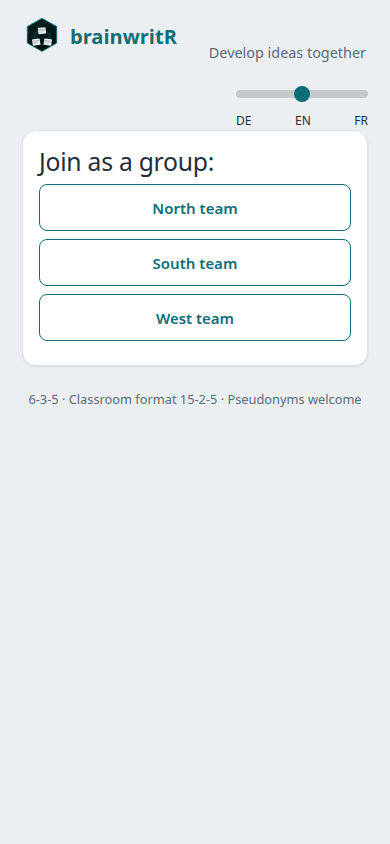
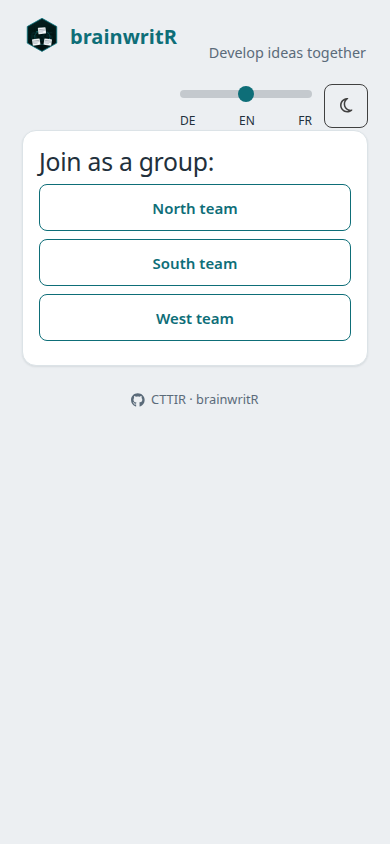
docs: document 0.5.0 plenum weighting and audit fixes
Describe the weighting workflow, planned group size, dark mode, phone
chart layouts, spreadsheet-safe CSV, login lifetime and migration, and
refresh the screenshot gallery.

diff --git a/README.md b/README.md
@@ -26,10 +26,13 @@ with its own address and QR code, managed from a moderator overview. No
 accounts, webfonts, or external application services are required.
 
 Use the **DE / EN / FR language slider** to change the interface without
-replacing answer fields or translating contributed text. The choice is
-remembered in that browser. German is the default. The text-analysis
-method and export schemas retain their documented German defaults; the
-in-app chart labels follow the selected language.
+replacing answer fields or translating contributed text. The button next
+to it switches between a light and a dark theme; the choice is
+remembered in that browser, and without one the device setting decides.
+Charts and QR codes stay light for legibility and scanning. German is
+the default. The text-analysis method and export schemas retain their
+documented German defaults; the in-app chart labels follow the selected
+language.
 
 ## Install and start
 
@@ -73,9 +76,11 @@ brainwritR::run_app(
 
 1.  **Set up:** open the moderator route, enter the PIN, and enter a
     title and two questions for each topic. Choose 2–6 groups, 1–12
-    rounds, and 30–1800 seconds per round. The **15-2-5** preset is
-    three topics, three rounds, five minutes per round, designed for
-    roughly 13–17 participants.
+    rounds, and 30–1800 seconds per round. Enter the planned number of
+    participants: below the fields the format is described live, for
+    example “Format 15-2-5: 3 topics, 3 rounds, 300 s per round. 5
+    people per group.” (participants, questions, minutes). Names are
+    optional; participants can enter a name or pseudonym when joining.
 2.  **Invite:** open the lobby. Participants scan the QR code and enter
     a name or pseudonym. Watch the live roster, then start once at least
     K people have joined.
@@ -84,11 +89,51 @@ brainwritR::run_app(
     questions. Drafts save after 1.2 seconds of quiet; **Abgeben**
     explicitly submits both answers. Submitted answers remain editable
     until the round ends. The moderator can add 60 seconds or end a
-    round early.
-4.  **Debrief:** after the last round, the moderator sees results by
-    topic and sheet, downloads CSV, Markdown, RDS, XLSX or a two-page
-    PDF, and can reset the session (**Zurücksetzen …**) or archive it
-    and start the next one from the session overview.
+    round early; repeated clicks or a second moderator tab end only the
+    round that is on screen, never the next one.
+4.  **Weigh (optional):** in **Analyse & Plenum**, start the weighting.
+    Everyone distributes 100 % per topic across the anonymous
+    contributions; the moderator ends it and discusses the ranked
+    overview with the room.
+5.  **Debrief:** the moderator sees results by topic and sheet,
+    downloads CSV, Markdown, RDS, XLSX or the PDF report, and can reset
+    the session (**Zurücksetzen …**) or archive it and start the next
+    one from the session overview.
+
+## Weigh contributions in the plenum
+
+After the writing phase, the finished moderator view has an **Analyse &
+Plenum** tab. **Gewichtung starten** switches every participant’s device
+to the weighting: all nonempty contributions of each topic appear
+without names and in a personal random order. Each person has **100 %
+per topic** and distributes it with sliders in steps of 5 %; a slider
+cannot pass the remaining budget, and every change saves at once. Each
+slider is named by its question and contribution for screen readers and
+announces the topic’s remaining budget. If the same person has the page
+open twice, or a group device is taken over, every open page follows the
+stored weights within a few seconds. Everyone may weight all
+contributions, including their own. In group-device mode each group
+weights as one author. On a shared hot-seat device the weighting passes
+from person to person (**Weitergeben an: …**, **Los geht’s**, **Fertig —
+weitergeben**); the moderator can skip an absent person.
+
+While the weighting runs, the moderator sees per topic how many people
+have used their full budget; results stay hidden so they cannot steer
+the vote. **Gewichtung beenden** shows the collected overview: a chart
+of the highest-weighted contributions per topic and the full ranking
+with share of all points given in the topic, mean per person and number
+of supporters. **Wieder öffnen** continues with the saved weights. The
+weighting is a snapshot of the group’s opinion, not a measure of idea
+quality.
+
+The weights are stored with the voter’s participant ID so that each
+person keeps one budget; the app never shows who gave which weight.
+**Gewichtung (CSV)** exports the ranking, and the XLSX workbook (sheet
+**Gewichtung**), the Markdown protocol and a third PDF page include it;
+all of these are aggregated per contribution. Only the RDS snapshot
+keeps the individual weights (table `votes`), linked to participant IDs
+and therefore to names unless **Namen pseudonymisieren** is ticked,
+which replaces the voter IDs with the same codes as the authors.
 
 ## Run several sessions
 
@@ -122,8 +167,10 @@ a login token that lives only in server memory and in the tab’s session
 storage, so moving between sessions and reconnecting do not ask for the
 PIN again. **Abmelden** (sign out) ends it; a server restart signs
 everyone out. After five wrong PINs, new logins pause for 15 seconds,
-doubling up to five minutes; signed-in moderators continue. Because the
-PIN now also protects deletion, use a long private PIN.
+doubling up to five minutes; signed-in moderators continue. A login
+lasts 12 hours: an open moderator tab is signed out within a minute once
+it expires. Because the PIN now also protects deletion, use a long
+private PIN.
 
 Participants keep a separate stored identity for each session, so one
 device can join several sessions. Unknown codes show **Session nicht
@@ -133,8 +180,9 @@ a few seconds.
 **Storage.** `DB_PATH` holds the standard session and the session
 catalog. Every further session is a separate SQLite file with the
 unchanged schema in a `sessions/` folder next to it. Back up the whole
-folder. Existing databases need no migration: their session simply
-becomes the standard session.
+folder. Existing databases migrate automatically when the app starts,
+including every catalogued session file; their session becomes the
+standard session. Back up before upgrading.
 
 ## Screenshot gallery
 
@@ -149,9 +197,11 @@ content.
 |:---|:---|
 | <img src="man/figures/group-device.png" width="320" alt="English group claim buttons" /> | <img src="man/figures/hot-seat.png" width="320" alt="English hot-seat handover and start button" /> |
 
-| Session overview |
-|:---|
-| <img src="man/figures/sessions.png" width="320" alt="English session overview with open, QR code, restart, archive and delete actions" /> |
+| Session overview | Plenum weighting |
+|:---|:---|
+| <img src="man/figures/sessions.png" width="320" alt="English session overview with open, QR code, restart, archive and delete actions" /> | <img src="man/figures/plenum-vote.png" width="320" alt="English weighting sliders distributing 100 percent per topic" /> |
+
+<img src="man/figures/plenum-results.png" width="720" alt="English plenum overview with ranked contributions and chart" />
 
 <img src="man/figures/analytics.png" width="720" alt="English descriptive analytics with indicators, contribution chart and term figures" />
 
@@ -262,21 +312,25 @@ unknown keys produce warnings and are ignored. The PIN is never read
 from or exported to settings. Keep it in runtime configuration.
 
 Database initialization migrates older sessions in place. It adds `mode`
-(default `individual`), `current_turn` (default 0), and `settings_yaml`
-without changing the other tables or removing data. The additional
-settings column is a deliberate extension to keep custom names, the
-prepared roster, and turn duration in SQLite across restarts. No sidecar
-file is required. Back up before upgrading; an older package version
-should not be used to operate a newer-mode database.
+(default `individual`), `current_turn` (default 0), `settings_yaml`, and
+for the plenum `plenum` (default `none`) and `plenum_turn` (default 0),
+and creates the `votes` table, without changing the other tables or
+removing data. `run_app()` applies this to the main database and to
+every catalogued session file at startup. The additional settings column
+is a deliberate extension to keep custom names, the prepared roster, and
+turn duration in SQLite across restarts. No sidecar file is required.
+Back up before upgrading; an older package version should not be used to
+operate a newer-mode database.
 
 ## Analytics and reports
 
-The moderator’s finished screen has **Beiträge** and **Auswertung**
-tabs. Four indicators summarize nonempty saved answers: contribution
-count, average raw word count, submitted share, and distinct filtered
-terms. Drafts count as contributions; **Abgabequote** is submitted
-nonempty entries divided by all nonempty entries, not a measure of
-attendance or the proportion of possible answers completed.
+The moderator’s finished screen has **Beiträge**, **Auswertung** and
+**Analyse & Plenum** tabs. Four indicators summarize nonempty saved
+answers: contribution count, average raw word count, submitted share,
+and distinct filtered terms. Drafts count as contributions;
+**Abgabequote** is submitted nonempty entries divided by all nonempty
+entries, not a measure of attendance or the proportion of possible
+answers completed.
 
 The figures show contributions by topic/round, the top eight terms per
 topic, a term network, a wordcloud, and adjacent-round lexical overlap.
@@ -284,7 +338,12 @@ Network and wordcloud share a topic selector. The network defaults to at
 least two entries containing a pair and at most 40 frequent terms; the
 cloud uses at most 60 terms. Layouts use fixed seeds. The same plotting
 functions create app and report figures. Empty or insufficient input
-produces a labelled placeholder instead of an error.
+produces a labelled placeholder instead of an error. On phones the app
+switches to single-column term charts, a smaller network, horizontal
+continuity bars and a rank-numbered weighting chart whose height follows
+the bars shown. Contributions consisting only of whitespace (including
+tabs, line breaks, no-break or ideographic spaces and zero-width
+characters) never count as contributions.
 
 Text processing is deliberately simple: Unicode letter boundaries,
 German lowercasing, at least three letters, German Snowball stopwords,
@@ -305,9 +364,10 @@ On macOS, the CRAN R build may require
 before using PDF reports; see the [R Cairo device
 documentation](https://search.r-project.org/R/refmans/grDevices/html/cairo.html).
 
-The PDF always has two A4 portrait pages, including for an empty
-session: overview/parameters/KPIs/contributions/top terms, then
-networks/wordcloud/topic summary. Up to three topics receive separate
+The PDF has two A4 portrait pages, including for an empty session:
+overview/parameters/KPIs/contributions/top terms, then
+networks/wordcloud/topic summary. A third page with the plenum weighting
+follows when weights exist. Up to three topics receive separate
 networks; larger sessions receive one combined network. Cairo and
 patchwork compose the report directly: the runtime container needs no
 LaTeX, Pandoc, or R Markdown report toolchain.
@@ -316,9 +376,10 @@ LaTeX, Pandoc, or R Markdown report toolchain.
 |:---|:---|:---|
 | CSV | Spreadsheet or statistical import | Existing UTF-8 long contribution table |
 | Markdown | Readable classroom protocol | Questions and nonempty answers by topic/sheet |
-| RDS | Lossless re-analysis in R | Four raw tables, settings, generation time, package version |
-| XLSX | Workbook for review | Beiträge, Teilnehmer, Themen, Kennzahlen; styled headers |
-| PDF | Shareable two-page debrief | Session overview and the shared descriptive figures |
+| RDS | Lossless re-analysis in R | Raw tables (plus `votes`), settings, generation time, package version |
+| XLSX | Workbook for review | Beiträge, Teilnehmer, Themen, Kennzahlen (plus Gewichtung); styled headers |
+| PDF | Shareable debrief | Session overview and the shared figures; plenum page when weighted |
+| Gewichtung (CSV) | Plenum ranking | Topic, rank, contribution, points, share, mean, supporters |
 
 **Namen pseudonymisieren (TN-01, TN-02, …)** applies stable
 arrival-order codes to all five downloads; groups receive `Gruppe-01`,
@@ -422,11 +483,11 @@ runs as unprivileged UID 10001. A standalone local smoke run needs no
 Traefik:
 
 ``` sh
-docker build -f docker/Dockerfile -t brainwritr:0.4.0 .
+docker build -f docker/Dockerfile -t brainwritr:0.5.0 .
 docker volume create brainwritr-data
 docker run --rm --name brainwritr -p 3838:3838 \
   -e MOD_PIN=choose-a-private-pin \
-  -v brainwritr-data:/app/data brainwritr:0.4.0
+  -v brainwritr-data:/app/data brainwritr:0.5.0
 ```
 
 For an existing Traefik installation with an external `proxy` network:
@@ -459,14 +520,15 @@ grouped Markdown protocol. Markdown groups Thema → Bogen →
 
 Use pseudonyms and avoid personal or sensitive information in
 contributions. The app stores names/pseudonyms, an opaque participant
-ID, joining and editing times, group assignments, and text on your
-server. Browser storage holds one participant ID per session and the
-language preference; a moderator tab also keeps its login token in
-session storage. It makes no application calls to external services and
-has no external usage tracking. The moderator can export all
-contributions and reset the session. Participants can read earlier
-drafts as well as submissions on their assigned sheet; this is a
-collaborative activity, not a confidential survey.
+ID, joining and editing times, group assignments, plenum weights, and
+text on your server. Browser storage holds one participant ID per
+session and the language and light/dark theme preferences; a moderator
+tab also keeps its login token in session storage. It makes no
+application calls to external services and has no external usage
+tracking. The moderator can export all contributions and reset the
+session. Participants can read earlier drafts as well as submissions on
+their assigned sheet; this is a collaborative activity, not a
+confidential survey.
 
 This supports data-minimizing, self-hosted use; it is **not a blanket
 GDPR/DSGVO compliance guarantee**. The operator defines access, notice,
@@ -476,7 +538,13 @@ forensic erasure of SQLite pages, filesystem snapshots, exports or
 backups. Archived sessions keep their data until deleted. Protect those
 separately. Treat exported user text as untrusted when importing into
 spreadsheet software or rendering Markdown; use text-only spreadsheet
-import and a safe Markdown renderer.
+import and a safe Markdown renderer. The CSV downloads stay raw by
+default for statistical use. **CSV für Tabellenkalkulation absichern**
+prefixes `=`, `+`, `-`, `@`, a tab or a carriage return with an
+apostrophe (OWASP CSV-injection guidance) at the start of a cell and
+after an embedded comma, semicolon, tab or line break, so spreadsheets
+that split on `;` or start a new record at a line break see no live
+formula; RDS stays lossless.
 
 ## Development and quality
 
@@ -491,13 +559,14 @@ pkgdown::build_site()
 
 Tests cover rotation, lifecycle, balanced assignment, late arrivals,
 upserts, clock advancement, authorization, exports, reset, the session
-catalog, routing, overview actions and login throttling. `shinytest2`
-exercises a phone-sized browser, PIN rejection, reload/resume, polling
-stability, a participant-driven round change, separate identities per
-session and moderator navigation between sessions. Browser tests skip on
-CRAN or if Chrome is unavailable; set `CHROMOTE_CHROME` to a Chromium
-executable to enable them locally. CI checks Linux, macOS and Windows,
-lint, and builds the CTTIR-themed pkgdown site.
+catalog, routing, overview actions, login throttling, plenum budgets,
+results and exports. `shinytest2` exercises a phone-sized browser, PIN
+rejection, reload/resume, polling stability, a participant-driven round
+change, separate identities per session, moderator navigation between
+sessions and the weighting sliders’ budget in the browser. Browser tests
+skip on CRAN or if Chrome is unavailable; set `CHROMOTE_CHROME` to a
+Chromium executable to enable them locally. CI checks Linux, macOS and
+Windows, lint, and builds the CTTIR-themed pkgdown site.
 
 See the [classroom and deployment
 guide](https://cttir.github.io/brainwritR/articles/classroom-guide.html)

diff --git a/NEWS.md b/NEWS.md
@@ -1,3 +1,42 @@
+# brainwritR 0.5.0
+
+* Add **Analyse & Plenum** to finished sessions: participants see all contributions
+  anonymously and distribute 100 % per topic with sliders, their own contributions
+  included. On a shared hot-seat device the weighting passes from person to person.
+* The moderator starts, ends and reopens the weighting, follows progress per topic and
+  then sees a ranked overview with a chart; results stay hidden while voting is open.
+* Weights appear in a new CSV download, an extra XLSX sheet, the RDS snapshot, the
+  Markdown protocol and a third PDF page. For sessions without weights, CSV, XLSX,
+  Markdown and PDF are unchanged; the RDS snapshot always carries the `votes` table and
+  the new `plenum` and `plenum_turn` session columns.
+* Ask for the planned number of participants in setup and describe the resulting format
+  live, for example "Format 16-2-5 … 5–6 people per group"; the lobby counts joins
+  against it. Names in setup are marked optional; pseudonyms are welcome.
+* Replace the footer line with a CTTIR link and an inline GitHub icon.
+* Add a light/dark toggle next to the language control. It switches in place without
+  touching drafts, is remembered per browser and follows the device setting by default.
+* Migrate session files created by 0.4.0 at startup.
+
+Follow-up to an external audit of this release:
+
+* Ending a round only ends the round on screen: repeated clicks or a second moderator tab
+  no longer skip a round in individual and group-device mode.
+* Weighting sliders are named by their question and contribution and announce the
+  remaining budget; their values are spoken as percentages.
+* Charts adapt to phones: rank-numbered weighting chart sized to its bars, single-column
+  terms, smaller network and wordcloud, horizontal continuity bars, larger text.
+* One rule decides what counts as a contribution: whitespace-only text (tabs, line
+  breaks, no-break, ideographic and zero-width characters included) is ignored by
+  analytics, weighting, protocols and the previous-contribution view.
+* Open voting pages of the same person follow weights stored from another tab or device.
+* Moderator logins also expire in open tabs after 12 hours.
+* Optional spreadsheet-safe CSV downloads that defuse formula-like cells, also after
+  embedded separators and line breaks.
+* Publish the website through GitHub Pages actions, matching the repository setting.
+* Open SQLite files with `synchronous = NORMAL` (SQLite's durable setting for WAL) after
+  the busy timeout, instead of RSQLite's default `OFF`, so recently saved contributions
+  survive an operating-system crash or power loss.
+
 # brainwritR 0.4.0
 
 * Run several sessions side by side, each with its own address (`?s=<code>`) and QR code.
